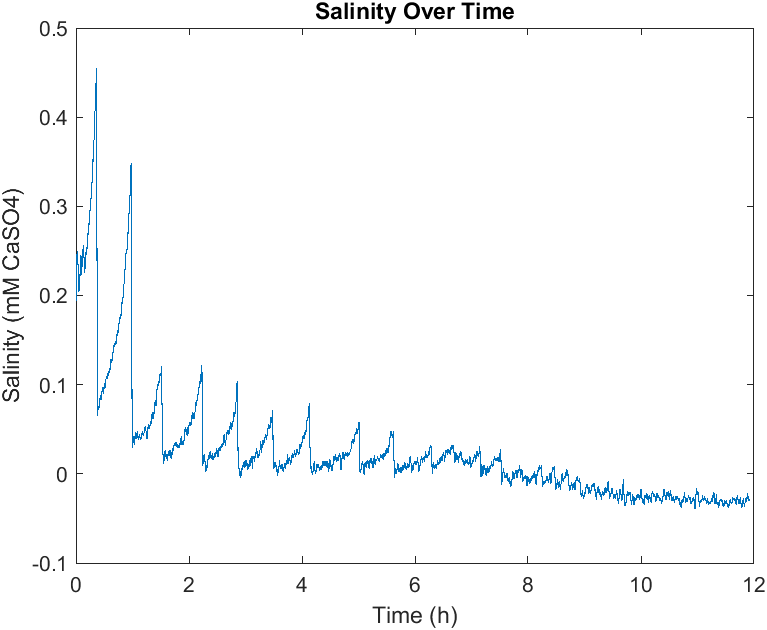
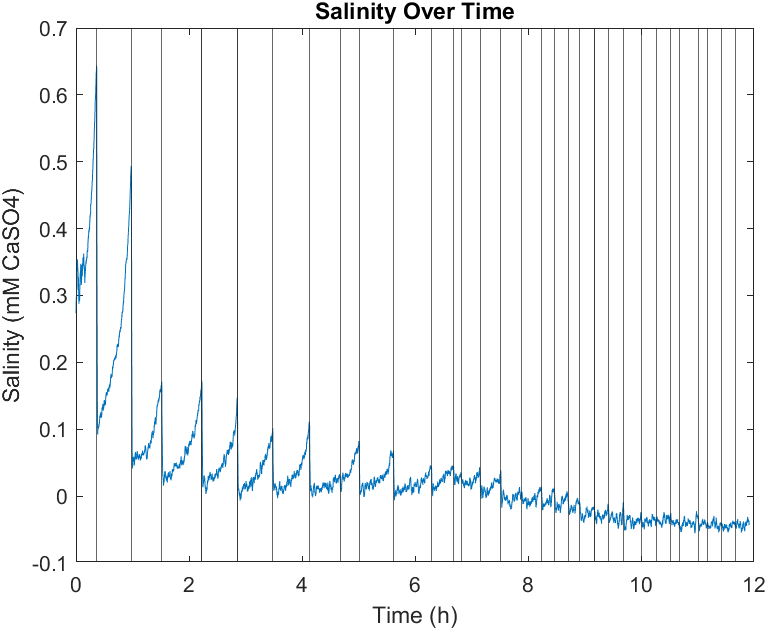
Data part 2

diff --git a/Arduino + Daq/data/CaSO4_data_analysis.m b/Arduino + Daq/data/CaSO4_data_analysis.m
@@ -15,9 +15,9 @@ empty_time = time(r);
         
 %% calculates and plots salinity ,flux, and permeability
 % parameters to enter each time
-sal_mM_i = 4.3;       % mM, initial salinityfor salinity-based estimation of recovery
-P_psi = 350;          % applied pressure in psi
-permeate_cond = 100/1000;  % conductivity of permeate in mS/cm 
+sal_mM_i = 0;       % mM, initial salinityfor salinity-based estimation of recovery
+P_psi = 360;          % applied pressure in psi
+permeate_cond = 5/1000;  % conductivity of permeate in mS/cm 
 
 % preset parameters
 t_min_av = 0.5;         % minutes to average over
@@ -124,7 +124,7 @@ xline(empty_time./3600)
 title("Membrane Permeability Over Time")
 xlabel('Time (h)')
 ylabel('Permeability (LMH/bar)')
-ylim([0,4])
+ylim([0,16])
 
 % plots osmotic pressure
 figure
